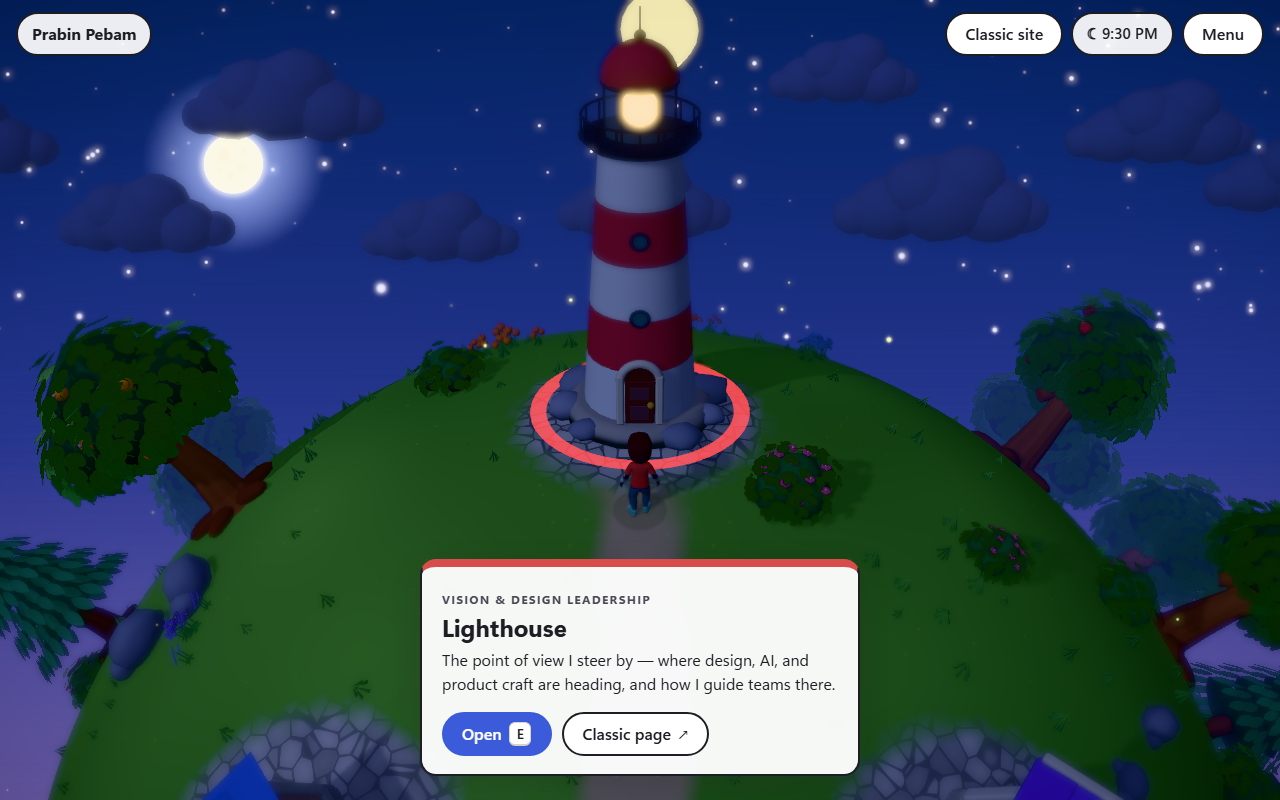
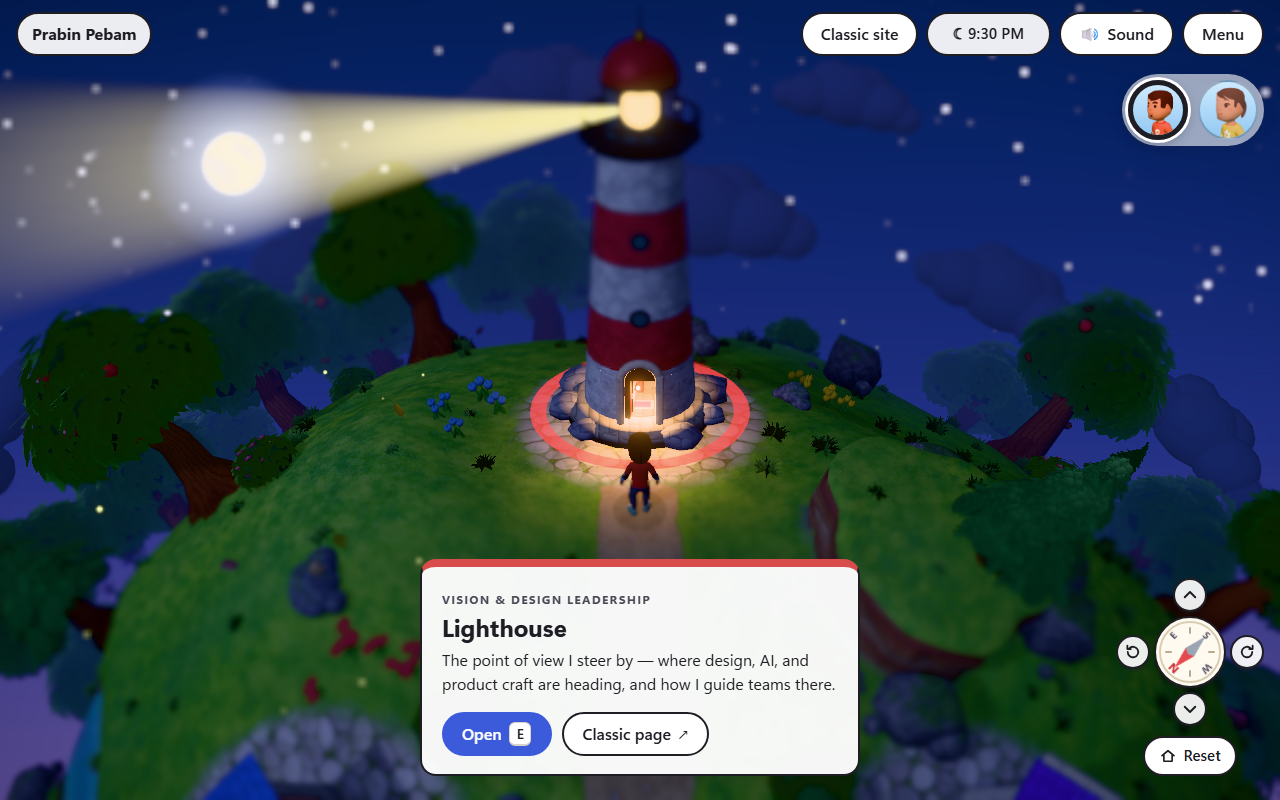
Longer lighthouse beam that dissolves instead of ending abruptly
The beam is now a 10 u open cone (was 3.4 u) drawn with a small additive
shader (world/beam.ts): brightest at the lamp and fading as (1 - t)^2.2
along its length, reaching zero with zero slope so there is no end rim,
with silhouette edges softened by view angle. Lower saturation so the
gradient reads; a soft shaft by day, stronger at night.

Adds beam unit tests, spec/README notes and refreshed lighthouse shots.

diff --git a/src/game/world/Landmark.tsx b/src/game/world/Landmark.tsx
@@ -18,6 +18,7 @@ import {
   PlaneGeometry,
   PointLight,
   Quaternion,
+  ShaderMaterial,
   SphereGeometry,
   Vector3,
 } from 'three';
@@ -30,6 +31,7 @@ import { selectAmbientPaused, selectReducedMotion } from '../state/store';
 import { clockHandAngles } from './clockFace';
 import { lampsOn } from './DayNight';
 import { addLamp, type Lamp } from './lampLights';
+import { BEAM, BEAM_FRAG, BEAM_VERT } from './beam';
 import { curtainColumn, DOOR, smooth, stepOpen } from './doors';
 import type { KitGeometry, V3 } from './kit';
 import { KitModel } from './KitModel';
@@ -43,18 +45,28 @@ const R = CONFIG.planetRadius;
 function Beam({ at, paused, controller }: { at: [number, number, number]; paused: boolean; controller: GameController }) {
   const ref = useRef<Group>(null);
   const { geo, mat } = useMemo(() => {
-    const g = new ConeGeometry(0.55, 3.4, 20, 1, true);
+    // apex at the lamp, opening outward along +x
+    const g = new ConeGeometry(BEAM.radius, BEAM.length, 28, 1, true);
     g.rotateZ(Math.PI / 2);
-    g.translate(1.75, 0, 0);
-    return { geo: g, mat: new MeshBasicMaterial({ color: '#fff3a6', transparent: true, opacity: 0.28, depthWrite: false, blending: AdditiveBlending, side: DoubleSide }) };
+    g.translate(BEAM.length / 2, 0, 0);
+    const m = new ShaderMaterial({
+      uniforms: { uColor: { value: new Color('#fff3a6') }, uOpacity: { value: 0.3 }, uLength: { value: BEAM.length } },
+      vertexShader: BEAM_VERT,
+      fragmentShader: BEAM_FRAG,
+      transparent: true,
+      depthWrite: false,
+      blending: AdditiveBlending,
+      side: DoubleSide,
+    });
+    return { geo: g, mat: m };
   }, []);
   useFrame((_, dt) => {
     if (ref.current && !paused) ref.current.rotation.y += dt * 0.7;
-    mat.opacity = 0.2 + 0.35 * controller.sky.night;
+    mat.uniforms.uOpacity.value = 0.4 + 0.18 * controller.sky.night;
   });
   return (
     <group ref={ref} position={at}>
-      <mesh geometry={geo} material={mat} />
+      <mesh geometry={geo} material={mat} renderOrder={2} />
     </group>
   );
 }

diff --git a/src/game/world/beam.ts b/src/game/world/beam.ts
@@ -1,0 +1,43 @@
+/**
+ * The lighthouse beam: a long open cone of light scattered in the air (additive, like the stage
+ * beams). It is brightest at the lamp and dissolves smoothly toward its far end, and its
+ * silhouette edges are soft, so it never ends in a hard rim.
+ */
+
+/** Length (u) of the beam and its radius at the far end. */
+export const BEAM = { length: 10, radius: 1.75 } as const;
+
+/** Exponent of the fade along the beam (> 1: the brightness reaches 0 with zero slope, no visible end). */
+export const BEAM_FALLOFF = 2.2;
+
+/** Brightness along the beam, from the lamp (t = 0) to the far end (t = 1). */
+export function beamFalloff(t: number): number {
+  const u = Math.min(1, Math.max(0, t));
+  return Math.pow(1 - u, BEAM_FALLOFF);
+}
+
+export const BEAM_VERT = /* glsl */ `
+uniform float uLength;
+varying float vT;
+varying vec3 vN;
+varying vec3 vView;
+void main() {
+  vT = clamp(position.x / uLength, 0.0, 1.0);
+  vec4 mv = modelViewMatrix * vec4(position, 1.0);
+  vN = normalize(normalMatrix * normal);
+  vView = -mv.xyz;
+  gl_Position = projectionMatrix * mv;
+}`;
+
+// Brightest where you look through the middle of the shaft; fading at its silhouette edges and along its length.
+export const BEAM_FRAG = /* glsl */ `
+uniform vec3 uColor;
+uniform float uOpacity;
+varying float vT;
+varying vec3 vN;
+varying vec3 vView;
+void main() {
+  float edge = pow(abs(dot(normalize(vN), normalize(vView))), 2.0);
+  float along = pow(1.0 - vT, ${BEAM_FALLOFF.toFixed(2)});
+  gl_FragColor = vec4(uColor * (uOpacity * edge * along), 1.0);
+}`;

diff --git a/tests/unit/beam.test.ts b/tests/unit/beam.test.ts
@@ -1,0 +1,30 @@
+import { describe, expect, it } from 'vitest';
+import { BEAM, BEAM_FALLOFF, BEAM_FRAG, beamFalloff } from '../../src/game/world/beam';
+
+describe('lighthouse beam', () => {
+  it('is long: more than twice the old 3.4 u cone', () => {
+    expect(BEAM.length).toBeGreaterThan(2 * 3.4);
+  });
+
+  it('is brightest at the lamp and dissolves smoothly to nothing at its far end (no abrupt edge)', () => {
+    expect(beamFalloff(0)).toBe(1);
+    expect(beamFalloff(1)).toBe(0);
+    let prev = 1;
+    for (let t = 0.01; t <= 1.0001; t += 0.01) {
+      const f = beamFalloff(t);
+      expect(f).toBeLessThanOrEqual(prev);
+      expect(prev - f).toBeLessThan(0.03); // no step anywhere along it
+      prev = f;
+    }
+    // the last stretch is already nearly invisible, and it reaches 0 with zero slope
+    expect(beamFalloff(0.9)).toBeLessThan(0.01);
+    expect(beamFalloff(0.999) / 0.001).toBeLessThan(0.01);
+    // half-way along it has faded to under a quarter, so the fade reads over the whole length
+    expect(beamFalloff(0.5)).toBeLessThan(0.25);
+  });
+
+  it('the shader fades with the same curve', () => {
+    expect(BEAM_FALLOFF).toBeGreaterThan(1);
+    expect(BEAM_FRAG).toContain(`pow(1.0 - vT, ${BEAM_FALLOFF.toFixed(2)})`);
+  });
+});

diff --git a/documentation/poc-3d-navigation/spec.md b/documentation/poc-3d-navigation/spec.md
@@ -325,7 +325,7 @@ The cozy life-sim look is achieved with **original** procedural models. The styl
 | Architecture vocabulary | Reusable parts (`world/parts.ts`): stone plinths with blocks, corner pilasters, cornice bands, siding, gable roofs from overlapping shingle rows with trim boards, stepped hip roofs, panelled doors with brass handles, arched windows with mullions and sills, wall lanterns, awnings, bunting, flower boxes, steps, benches, barrels, crates, pot plants, sign boards |
 | Materials | Each part is tagged with what it's made of (§4.15): planked wood with grain along the board, shingled roofs, rough plaster, fieldstone, brick, metal and canvas each get their own hand-painted detail over the vertex colour, so a wooden door, a brick wall and a tiled roof no longer share one generic paint. Plain painted trims keep a subtle brush grain |
 | Doors & interiors | Walking up to a building opens its door: the leaves (one, or a pair with an astragal over the meeting edges) are built on their own in `door()` and swing about their hinges into the room, taking ≈ 0.55 s (instant under Reduce motion), and swing shut when you walk away (`world/doors.ts`). A building with a door has **hollow walls** (`walls({ opening })`): four 9 cm walls on the solid plinth, the front one a single extruded piece with the doorway cut out, so its texture runs on unbroken; the pilasters hide the corner joints, and course lines (siding, brick and stone bands) break at the doorway. The Lighthouse's lowest band leaves a gap with jambs and a lintel, and the Greenhouse has an open porch frame, a gap in its dome's lowest courses and a glass door. Behind each door is a **simple furnished room** (`world/interiors.ts`, drawn only while the door is open): floorboards, papered walls over a panelled dado, a pendant lamp, and furniture placed where you can see it through the doorway — the Workshop's workbench, stool and rug; the Town Hall's red carpet, benches, lectern and banners under a chandelier; the Library's bookcases and reading table with a green lamp; the Post Office counter, scale and pigeonholes of letters; the Lighthouse's round room with a spiral stair, barrel and coiled rope. The rooms use the kit's surface detail plus a warm emissive tinted by each part's colour, soft by day and lamplit after dusk. **At night** the open doorway pours light out: a soft **spot lamp** from just inside the doorway, aimed out and down over the steps and path (§4.13, *Lamplight*), and one shared warm point light (no shadows) that sits just inside whichever door is open, so it also lights the character standing at the door. Like the bridge lanterns, it stays in the scene at zero intensity, so the light count never changes. **The Amphitheater has no door**: a red velvet festoon curtain with a gold hem fills its band shell's arch and hides the stage's back. As you come near it rises on five lift cords into a scalloped valance, and the spotlights come on: soft additive beams (light scattered in the air) and a real spot lamp lighting the stage boards (strong after dusk). Test hooks: `doors()` (openness per landmark) and `doorLight()` |
-| Landmark silhouettes | Workshop cabin with chimney smoke, workbench and log pile; Town Hall with portico, pediment, waving flag and a clock-tower cupola whose clock tells the visitor's real local time (live hour, minute and ticking second hands read from the device clock, independent of the day–night mode; the second hand hides while ambient motion is paused; `world/clockFace.ts`, unit- and E2E-tested); striped Lighthouse with gallery, lantern room and rotating beam; classical Library with columns, banners and a giant stacked-book sculpture; band-shell Amphitheater with bulbs, spotlights and bunting; glass-dome Greenhouse with plants inside; Post Office with awning, envelope sign and a mailbox whose flag pops up when you're near |
+| Landmark silhouettes | Workshop cabin with chimney smoke, workbench and log pile; Town Hall with portico, pediment, waving flag and a clock-tower cupola whose clock tells the visitor's real local time (live hour, minute and ticking second hands read from the device clock, independent of the day–night mode; the second hand hides while ambient motion is paused; `world/clockFace.ts`, unit- and E2E-tested); striped Lighthouse with gallery, lantern room and rotating beam (`world/beam.ts`: a 10 u open cone of light scattered in the air, additive, brightest at the lamp and fading as `(1 − t)^2.2` along its length, so it dissolves into the sky with no end rim; its silhouette edges are softened by the view angle; a soft shaft by day, stronger at night); classical Library with columns, banners and a giant stacked-book sculpture; band-shell Amphitheater with bulbs, spotlights and bunting; glass-dome Greenhouse with plants inside; Post Office with awning, envelope sign and a mailbox whose flag pops up when you're near |
 | Nature | **Trees** (`world/foliage.ts`): a dark inner canopy volume covered with overlapping, drooping leaf cards. The cards use **hand-painted, generated greyscale sprites** (§4.15): a three-leaf cluster for hardwoods and bushes, and a 2×2 conifer atlas (round clump, drooping bough, cloud of tufts, crown tip) for cedars. They are tinted per card from dark undersides to sunlit tops; canvas-drawn leaves are the fallback. Cards are lit with the canopy's volume normal so the tree shades as one soft mass, and alpha-tested depth materials cast leaf-shaped shadows. Hardwoods have five rounded lobes on a **low-poly trunk whose polygons follow its shape** (about 240 triangles, down from about 665): a smooth-shaded, slightly irregular 6-sided stem (`barkTube`) with one ring per bend or taper change, so its panels run long and straight up the S-bent spine. The five buttress roots are one **root flare** (`rootFlare`): three columns per root (two for its rounded back, one valley on the stem's circle), sweeping out and down into the ground, so each root is a single strip of polygons. A 4-sided limb curves up into each side lobe, plus three twigs and a stub (and apple/orange variants). The ridges, furrows and knots come from the generated **bark** tile (§4.15), wrapped a whole number of times round each tube with the grain running along it; the bark tone darkens towards the roots with soft vertical streaks. Cedars avoid the regular stacked-cone look. They have five or six irregular tiers, each a tapering shell of **grouped** foliage: at irregular angles (with occasional gaps), a drooping bough fan hangs from the rim, with round clumps and tufts spread over the group's patch (lighter outside, darker inside) around a small dark core. The axis leans slightly, and the tree ends in a clustered crown. Three seeded variants (blue-green, fresh green, yellow-green) are spread across the planet. Their trunk is slimmer (about 100 triangles), with four roots. Bushes use the same leaf system. Also rounded rocks, clumps of tulips/cosmos/pansies, grass clumps (three crossed, painted alpha cards), a pond with lily pads and cattails, and butterflies; trees, bushes, grass and flowers sway in the wind (§4.14) |
 | Ground | Hand-painted, seamless tiles (§4.15) for lawn, dirt paths, cobbled forecourts, beach sand and riverbed, layered over procedural clover, tiny flowers, worn path edges, damp banks and painted grit on steep ground. The spawn plaza is a hand-painted decal: brick rings around a compass-rose inlay, its north aligned with the HUD compass and feathered into the lawn (`world/planetMaterial.ts`; procedural rings as the fallback) |
 | Rock and water | Cliff walls carry a painted sandstone-strata tile mapped around each mesa. Boulders, rocks and pebbles get their own painted granite tile (no strata) plus shader moss. The river shows drifting painted caustics (§4.15) |

diff --git a/README.md b/README.md
@@ -199,6 +199,7 @@ Differences from the spec's proposed structure (§5.7):
 | Game keys ignored when HUD focused; Start button doesn't steal focus | E2E: "start button, then WASD moves the player…" |
 | axe: no serious/critical issues on landing, classic, fallback, dialog, menu | E2E: landing, classic, no-WebGL2, dialog and menu tests (axe scans) |
 | Budgets: landing 0 KB 3D JS; gate 2.9 KB gz; game 407 KB gz (≤ 450); character model 163 KB; sound effects ≈ 625 KB (5 MP3s, fetched only after Start with sound on, ≤ 800 KB); generated textures ≈ 1.1 MB (24 WebP, ≤ 1.5 MB); landing poster 104 KB (mobile) / 194 KB (desktop); no `__game` in production | `npm run verify:prod`, `tests/unit/textures.test.ts` |
+| Lighthouse beam: 10 u long (was 3.4), brightest at the lamp and dissolving smoothly to nothing at its far end (no step, zero slope at the end), the shader fading with the same curve | `tests/unit/beam.test.ts` |
 | Render stats (all passes, everything always drawn): ≈ 96–106 draw calls / ≈ 650–670 k triangles on `high`, plus ≈ 9 calls for the swinging door leaves. **This exceeds the original 60 / 100 k target; a waiver is proposed in the plan's §6 and needs owner sign-off.** | `window.__game.renderInfo()` |
 | Exposure and dynamic range: the tilt-shift replaces the image (NORMAL blend) on both tiers, the frame is tone-mapped once, day exposure 1.3 opens smoothly to 1.7 at night, and under 6 % of a midday frame clips to white (was ≈ 40 % when the tilt-shift was additive) | `tests/unit/timeOfDay.test.ts` ("scene exposure"), E2E "the tilt-shift replaces the image…", "the low quality tier still has the tilt-shift" |
 | Textures: all 24 generated textures load (HTTP 200) before the planet appears, with no fallback. Every manifest entry is a square, power-of-two WebP that matches its recorded size; sprites have real alpha; tiles export a mean colour; each kit surface has a detail mask with its mean; each source has its prompt. The total stays within budget (≈ 1.1 MB of 1.5 MB). Tree trunks stay within their triangle budget, wrap the bark tile without a seam, face outwards at the roots and are smooth-shaded. The landing key art loads with fixed dimensions, and the social card is served | `tests/unit/textures.test.ts`, `tests/unit/surfaces.test.ts`, `tests/unit/trunks.test.ts`, E2E "hand-painted textures all load…", "landing ships no game JS…" |
